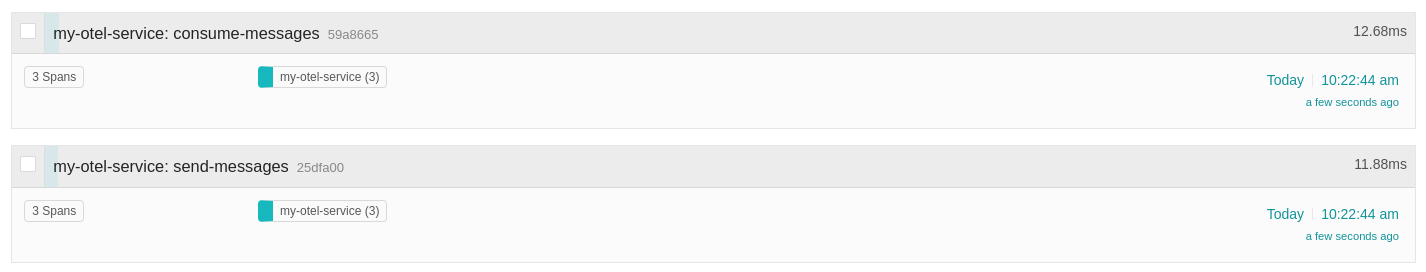
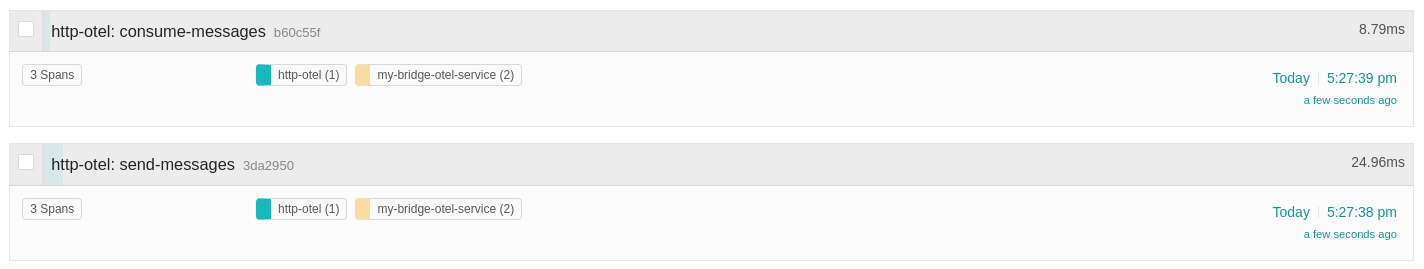
Fixed examples with different OTEL services

diff --git a/_posts/2023-02-27-opentelemetry.md b/_posts/2023-02-27-opentelemetry.md
@@ -176,7 +176,7 @@ Get the above file and change the OpenTelemetry exporter configuration environme
 env:
   # ...
   - name: OTEL_SERVICE_NAME
-    value: my-otel-service
+    value: my-bridge-otel-service
   - name: OTEL_EXPORTER_OTLP_ENDPOINT
     value: http://simplest-collector:4317
   # ...
